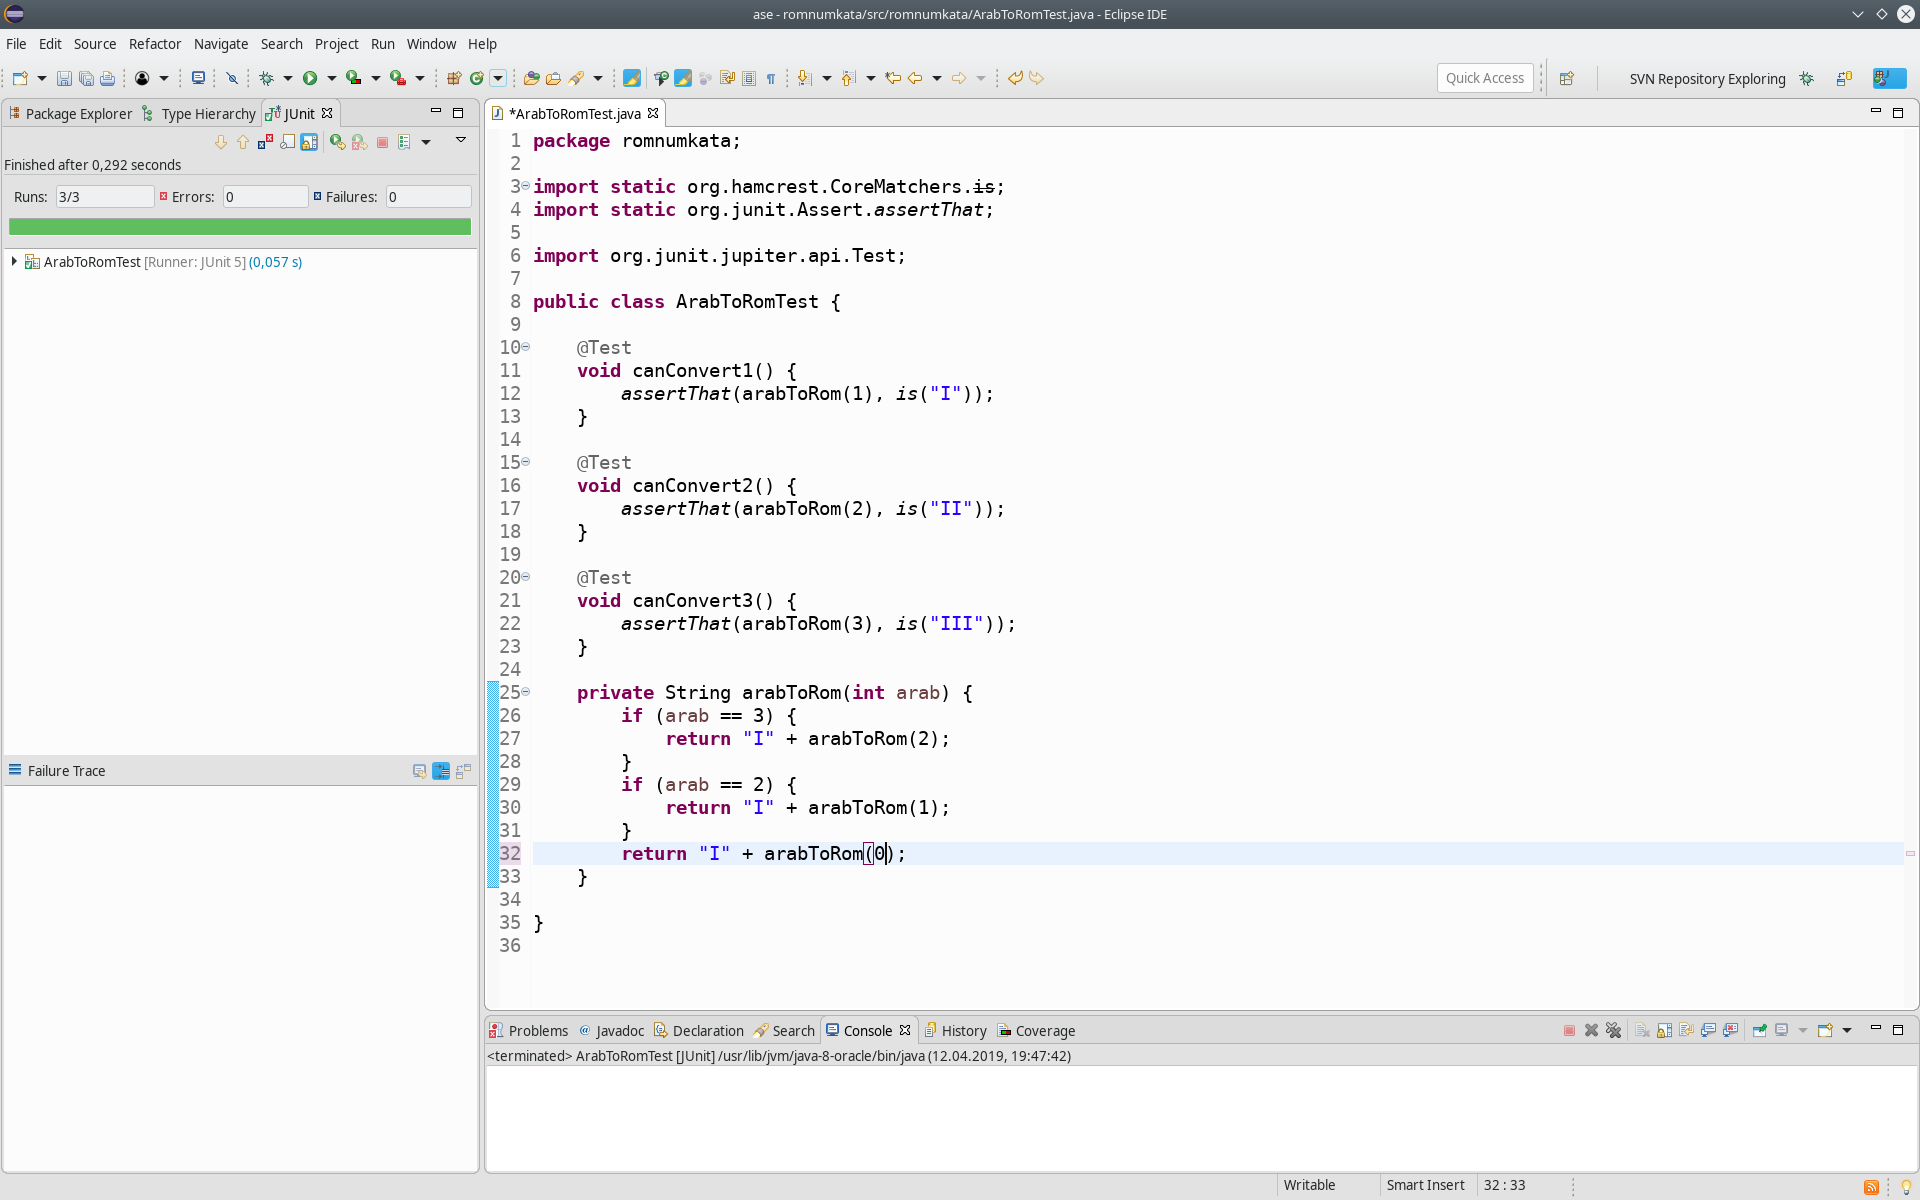
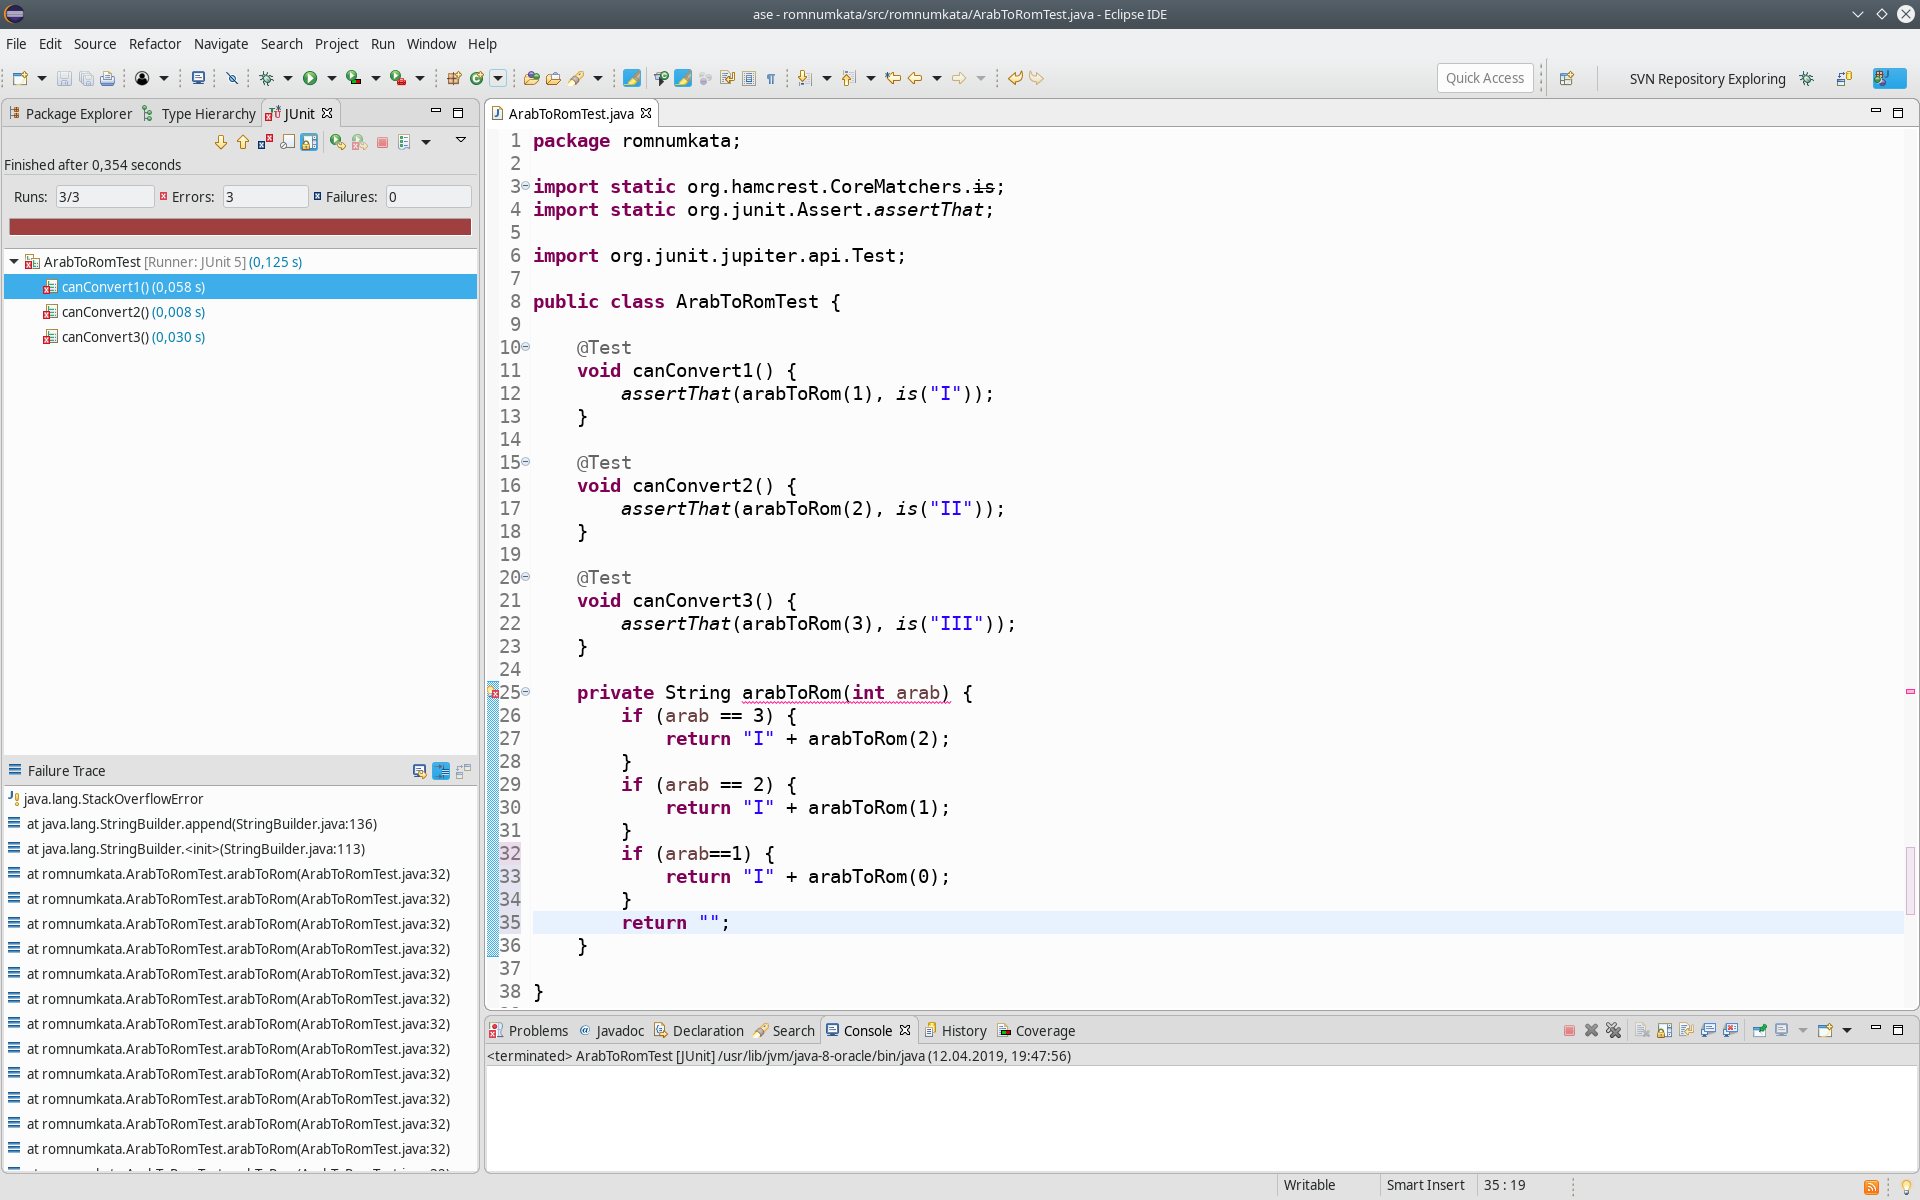
autocommit on change

diff --git a/src/romnumkata/ArabToRomTest.java b/src/romnumkata/ArabToRomTest.java
@@ -29,7 +29,10 @@ public class ArabToRomTest {
 		if (arab == 2) {
 			return "I" + arabToRom(1);
 		}
-		return "I" + arabToRom(0);
+		if (arab==1) {
+			return "I" + arabToRom(0);
+		}
+		return "";
 	}
 
 }
